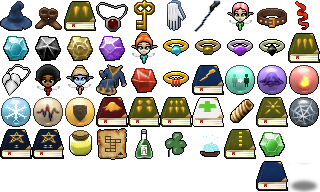
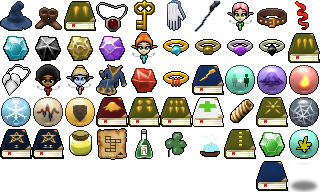
ADD New spell : Summon Magic Flower

Changed region(s): [[0.9062, 0.6562, 1.0, 0.8438]]

diff --git a/src/EvilFlowerEntity.cpp b/src/EvilFlowerEntity.cpp
@@ -21,6 +21,8 @@ EvilFlowerEntity::EvilFlowerEntity(float x, float y, flowerTypeEnum flowerType)
   this->flowerType = flowerType;
 
   bloodColor = BloodGreen;
+  fireDelayMax = EVIL_FLOWER_FIRE_DELAY;
+  fireDelay = EVIL_FLOWER_FIRE_DELAY;
 
   if (flowerType == FlowerTypeStandard)
   {
@@ -47,9 +49,18 @@ EvilFlowerEntity::EvilFlowerEntity(float x, float y, flowerTypeEnum flowerType)
     resistance[ResistanceIce] = ResistanceVeryLow;
     resistance[ResistanceFire] = ResistanceVeryHigh;
   }
+  else if (flowerType == FlowerTypePet)
+  {
+    frame = 9;
+    enemyType = EnemyTypeNone;
+    fireDelayMax = EVIL_FLOWER_FIRE_DELAY * 1.5f;
+    fireDelay = EVIL_FLOWER_FIRE_DELAY * 1.5f;
+    type = ENTITY_EFFECT;
+    bloodColor = BloodNone;
+  }
 
-  fireDelay = EVIL_FLOWER_FIRE_DELAY;
   age = -1.0f + (rand() % 2500) * 0.001f;
+  z = y + height * 0.5f;
 }
 
 void EvilFlowerEntity::animate(float delay)
@@ -61,7 +72,23 @@ void EvilFlowerEntity::animate(float delay)
   else if (fireDelay < 1.4f) setSpin(120.0f);
   else setSpin(50.0f);
 
-  EnemyEntity::animate(delay);
+  if (flowerType == FlowerTypePet)
+  {
+    age += delay;
+    if (age > lifetime)
+    {
+      isDying = true;
+      SoundManager::getInstance().playSound(SOUND_INVOKE);
+      for (int i = 0; i < 8; i++)
+      {
+        game().generateStar(sf::Color::White, x, y);
+        game().generateStar(sf::Color(210, 210, 255), x, y);
+      }
+    }
+  }
+  else
+    EnemyEntity::animate(flowerDelay);
+
   angle += spin * flowerDelay;
 
   if (age > 0.0f)
@@ -69,7 +96,11 @@ void EvilFlowerEntity::animate(float delay)
     fireDelay -= flowerDelay;
     if (fireDelay <= 0.0f)
     {
-      if (canSee(game().getPlayerPosition().x, game().getPlayerPosition().y))
+      if (flowerType == FlowerTypePet)
+      {
+        fire();
+      }
+      else if (canSee(game().getPlayerPosition().x, game().getPlayerPosition().y))
       {
         fireDelay = EVIL_FLOWER_FIRE_DELAY;
         fire();
@@ -78,6 +109,11 @@ void EvilFlowerEntity::animate(float delay)
         fireDelay = 0.35f;
     }
   }
+}
+
+void EvilFlowerEntity::setFireDelayMax(float fireDelayMax)
+{
+  this->fireDelayMax = fireDelayMax;
 }
 
 void EvilFlowerEntity::calculateBB()
@@ -134,6 +170,20 @@ void EvilFlowerEntity::fire()
         bolt->setVelocity(Vector2D(-sin(fireAngle) * flowerFireVelocity, -cos(fireAngle) * flowerFireVelocity));
     }
   }
+  else if (flowerType == FlowerTypePet)
+    {
+      Vector2D target = game().getNearestEnemy(x, y);
+      if (target.x > -1.0f)
+      {
+        SoundManager::getInstance().playSound(SOUND_BLAST_STANDARD);
+        BoltEntity* bolt = new BoltEntity (x, y + 10, 6, ShotTypeStandard, 0);
+        bolt->setVelocity(Vector2D(x, y).vectorTo(target, 2 * EVIL_FLOWER_FIRE_VELOCITY));
+        bolt->setViscosity(1.0f);
+        fireDelay = fireDelayMax;
+      }
+      else
+        fireDelay = 0.35f;
+    }
   else
   {
     SoundManager::getInstance().playSound(SOUND_BLAST_FLOWER);
@@ -147,6 +197,11 @@ void EvilFlowerEntity::fire()
     bolt->setVelocity(Vector2D(x, y).vectorTo(game().getPlayerPosition(), flowerFireVelocity ));
   }
 
+}
+
+bool EvilFlowerEntity::canCollide()
+{
+  return flowerType != FlowerTypePet;
 }
 
 void EvilFlowerEntity::render(sf::RenderTarget* app)

diff --git a/src/PlayerEntity.cpp b/src/PlayerEntity.cpp
@@ -3,6 +3,7 @@
 #include "FallingRockEntity.h"
 #include "BoltEntity.h"
 #include "SpiderWebEntity.h"
+#include "EvilFlowerEntity.h"
 #include "EnemyBoltEntity.h"
 #include "ItemEntity.h"
 #include "FairyEntity.h"
@@ -2376,6 +2377,11 @@ void PlayerEntity::setActiveSpell(enumCastSpell spell, bool fromSaveInFight)
     activeSpell.frame = ItemSpellWeb - FirstEquipItem;
     break;
 
+  case SpellFlower:
+    activeSpell.delayMax = 80.0f;
+    activeSpell.frame = ItemSpellFlower - FirstEquipItem;
+    break;
+
   case SpellNone:
     break;
   }
@@ -2416,6 +2422,10 @@ void PlayerEntity::castSpell()
       break;
     case SpellWeb:
       castWeb();
+      break;
+    case SpellFlower:
+      spellAnimationDelay = spellAnimationDelayMax;
+      castSummonsFlower();
       break;
 
     case SpellNone:
@@ -2597,4 +2607,12 @@ void PlayerEntity::castWeb()
 
     web->setVelocity(Vector2D(webVel * cos(webAngle), webVel * sin(webAngle)));
   }
+}
+
+void PlayerEntity::castSummonsFlower()
+{
+  SoundManager::getInstance().playSound(SOUND_INVOKE);
+  EvilFlowerEntity* flower = new EvilFlowerEntity(x, y, FlowerTypePet);
+  flower->setLifetime(equip[EQUIP_BOOK_MAGIC_II] ? 45 : 35);
+  if (equip[EQUIP_BOOK_MAGIC_II]) flower->setFireDelayMax(EVIL_FLOWER_FIRE_DELAY);
 }

diff --git a/src/Items.h b/src/Items.h
@@ -39,6 +39,7 @@ enum enumCastSpell
   SpellEarthquake,
   SpellProtection,
   SpellWeb,
+  SpellFlower,
 
   SpellNone
 };
@@ -119,6 +120,7 @@ enum enumItemType
   ItemFairyPowder,
   ItemBookRapidShots,
   ItemGemPoison,
+  ItemSpellFlower,
 
   NUMBER_ITEMS
 };
@@ -385,6 +387,10 @@ const itemStuct items[NUMBER_ITEMS] =
     ItemGemPoison, "item_gem_poison", "item_gem_poison_desc",
     30, true, FamiliarNone, true, true, true, 4, RarityUncommon, false, -1, ShotTypePoison, SpellNone
   },
+  {
+    ItemSpellFlower, "item_spell_flower", "item_spell_flower_desc",
+    60, true, FamiliarNone, false, false, true, 1, RarityCommon, false, -1, ShotTypeStandard, SpellFlower
+  },
 };
 
 /** Item equipment type enum
@@ -440,6 +446,7 @@ enum item_equip_enum {
   EQUIP_FAIRY_POWDER,
   EQUIP_RAPID_SHOT,
   EQUIP_GEM_POISON,
+  EQUIP_SPELL_FLOWER,
 
   NUMBER_EQUIP_ITEMS
   };
@@ -499,6 +506,7 @@ const std::vector<item_equip_enum> sortedEquipement =
   EQUIP_SPELL_EARTHQUAKE,
   EQUIP_SPELL_PROTECTION,
   EQUIP_SPELL_WEB,
+  EQUIP_SPELL_FLOWER,
 
   // others
   EQUIP_BOSS_KEY,

diff --git a/src/EvilFlowerEntity.h b/src/EvilFlowerEntity.h
@@ -4,7 +4,7 @@
 #include "EnemyEntity.h"
 #include "PlayerEntity.h"
 
-enum flowerTypeEnum { FlowerTypeStandard, FlowerTypeIce, FlowerTypeFire };
+enum flowerTypeEnum { FlowerTypeStandard, FlowerTypeIce, FlowerTypeFire, FlowerTypePet };
 
 class EvilFlowerEntity : public EnemyEntity
 {
@@ -14,9 +14,12 @@ class EvilFlowerEntity : public EnemyEntity
     virtual void calculateBB();
     virtual void render(sf::RenderTarget* app);
     void fire();
+    virtual bool canCollide();
+    void setFireDelayMax(float fireDelayMax);
 
   private:
     float fireDelay;
+    float fireDelayMax;
     flowerTypeEnum flowerType;
 };
 

diff --git a/src/PlayerEntity.h b/src/PlayerEntity.h
@@ -585,6 +585,7 @@ class PlayerEntity : public BaseCreatureEntity
     void castEarthquake();
     void castProtection();
     void castWeb();
+    void castSummonsFlower();
 
     ItemEntity* itemToBuy;
 };

diff --git a/src/WitchBlastGame.cpp b/src/WitchBlastGame.cpp
@@ -3701,6 +3701,9 @@ enumItemType WitchBlastGame::getItemSpell()
   case SpellWeb:
     item = ItemSpellWeb;
     break;
+  case SpellFlower:
+    item = ItemSpellFlower;
+    break;
   }
   return item;
 }
